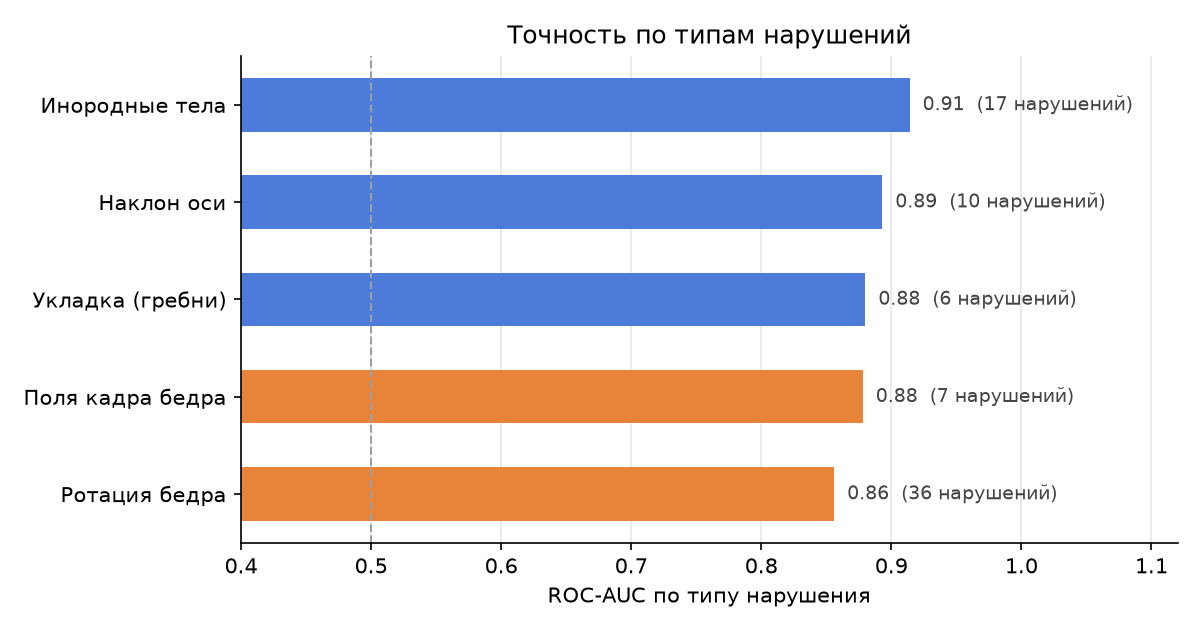
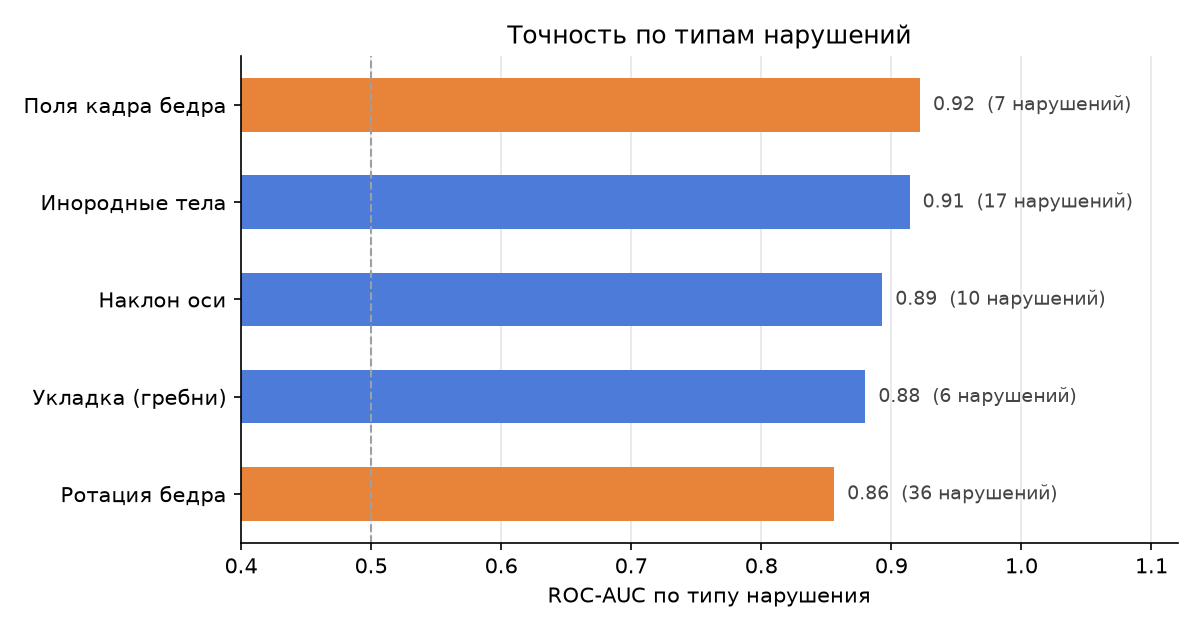
Q&A 17.09: верхнее поле бедра от большого вертела, эндопротез оценивается, словарь нарушений
- поле сверху считается от большого вертела (ТЗ: 3 см над ним): нормальных бёдер против правила
  45/143 -> 1/143, тип «область интереса» AUC 0.878 -> 0.922, F1 0.565 -> 0.676
- бедро с эндопротезом оценивается как обычное, пометка в details
- причины отказа — в details, в violation_type только названия из словаря
- проверено: смещение столба от центра и чёрные маски — без изменений
Итог: по исследованиям F1 0.830 (чувствительность 0.92), macro-F1 0.648.

diff --git a/dxaqc/service.py b/dxaqc/service.py
@@ -74,10 +74,11 @@ class QCService:
         if region == "spine":
             meas = spine_measurements(img, points, conf, mm_per_px, self.segmenter.area(img))
         else:
-            if float((img >= img.max() - 2).mean()) > IMPLANT_METAL_FRACTION:
-                out.update(implant=True, measurements={}, probs={}, violations=[], score=None, quality_class=0)
-                return out
+            # Q&A 17.09: a hip with an endoprosthesis is judged like any other hip (positioning and field
+            # are still the radiographer's job); the implant is only reported as a note in `details`.
+            implant = float((img >= img.max() - 2).mean()) > IMPLANT_METAL_FRACTION
             meas = hip_measurements(img, points, conf, region, mm_per_px)
+            meas["implant"] = implant
             # Rotation reads a crop aligned by the landmarks, and is sensitive to which detector placed
             # them. With an ensemble, the forest looks at the crop of every member and the answers are
             # averaged: on new detectors 0.826 AUC, against 0.809 for one crop from the averaged points.
@@ -100,7 +101,7 @@ class QCService:
             quality_class, score = 1, max(score, 0.9)
             if "v_pos" not in violations:
                 violations.append("v_pos")
-        out.update(implant=False, measurements=meas, probs=probs, violations=violations, score=score,
+        out.update(implant=bool(meas.get("implant", False)), measurements=meas, probs=probs, violations=violations, score=score,
                    quality_class=quality_class, presumed=presumed)
         return out
 
@@ -119,51 +120,52 @@ class QCService:
             mm, mm_src = pixel_spacing_mm(ds, img.shape)
             if mm_src in ("PixelSpacing", "ImagerPixelSpacing") and min(mm) < DXA_MIN_MM_PER_PX:
                 # a real spacing tag this fine means a radiograph (0.12-0.14 mm), not DXA (0.6 mm)
+                # violation_type is a closed vocabulary (разъяснения V2), so the reason goes to details
                 row.update(anatomical_region="не определена", quality_class=0, processing_status="Success",
-                           violation_type=f"оценка не проводится: размер пикселя {min(mm):.2f} мм — это не денситометрия",
-                           violation_codes="unsupported", details=f"{mm[0]:.3f}x{mm[1]:.3f} мм из тега {mm_src}")
+                           violation_type="", violation_codes="unsupported",
+                           details=f"оценка не проводится: размер пикселя {min(mm):.2f} мм — это не денситометрия "
+                                   f"({mm[0]:.3f}x{mm[1]:.3f} мм из тега {mm_src})")
                 row["time_of_processing"] = round(time.time() - t0, 3)
                 return row
             r = self.analyse(img, mm, rotation_override)
             row["mm_per_px"] = f"{mm[0]:.3f}x{mm[1]:.3f}" if mm[0] != mm[1] else round(mm[0], 4)
             row["mm_per_px_source"] = mm_src
             if r.get("unsupported"):
-                row.update(anatomical_region="не определена", quality_class=0,
-                           violation_type=f"оценка не проводится: {r['reason']}", violation_codes="unsupported",
-                           details="; ".join(f"{k} {v:.2f}" for k, v in r["checks"].items()),
+                row.update(anatomical_region="не определена", quality_class=0, violation_type="", violation_codes="unsupported",
+                           details=f"оценка не проводится: {r['reason']} ("
+                                   + "; ".join(f"{k} {v:.2f}" for k, v in r["checks"].items()) + ")",
                            processing_status="Success")
                 row["time_of_processing"] = round(time.time() - t0, 3)
                 return row
             row["anatomical_region"] = REGION_RU[r["region"]]
             row["_region"] = r["region"]
             row["_rotation"] = r.get("measurements", {}).get("rotation_own")
-            if r["implant"]:
-                row.update(quality_class=0, violation_type="эндопротез: оценка качества не проводится", violation_codes="implant")
+            row.update(quality_class=r["quality_class"], quality_prob=round(r["score"], 4),
+                       violation_type="; ".join(NAMES_RU[v] for v in r["violations"]),
+                       violation_codes=";".join(r["violations"]))
+            m = r["measurements"]
+            if r["region"] == "spine":
+                bits = []
+                if m.get("tilt_deg") is not None:
+                    bits.append(f"наклон оси {m['tilt_deg']:.1f}°")
+                if m.get("span_vert") is not None:
+                    bits.append(f"над гребнями {m['span_vert']:.1f} позвонка")
+                if m.get("vert_pitch_mm"):
+                    bits.append(f"высота позвонка {m['vert_pitch_mm']:.0f} мм")
+                if m.get("printed_markup"):
+                    bits.append("на снимке впечатана разметка аппарата: инородные тела не оцениваются")
+                row["details"] = "; ".join(bits)
             else:
-                row.update(quality_class=r["quality_class"], quality_prob=round(r["score"], 4),
-                           violation_type="; ".join(NAMES_RU[v] for v in r["violations"]),
-                           violation_codes=";".join(r["violations"]))
-                m = r["measurements"]
-                if r["region"] == "spine":
-                    bits = []
-                    if m.get("tilt_deg") is not None:
-                        bits.append(f"наклон оси {m['tilt_deg']:.1f}°")
-                    if m.get("span_vert") is not None:
-                        bits.append(f"над гребнями {m['span_vert']:.1f} позвонка")
-                    if m.get("vert_pitch_mm"):
-                        bits.append(f"высота позвонка {m['vert_pitch_mm']:.0f} мм")
-                    if m.get("printed_markup"):
-                        bits.append("на снимке впечатана разметка аппарата: инородные тела не оцениваются")
-                    row["details"] = "; ".join(bits)
-                else:
-                    ru = {"top": "сверху", "bottom": "снизу", "lateral": "сбоку"}
-                    bits = [f"поле {ru[k]} {m[f'margin_{k}']:.0f} мм" for k in ("top", "bottom", "lateral")
-                            if m.get(f"margin_{k}") is not None]
-                    if m.get("shaft_angle") is not None:
-                        bits.append(f"ось бедра {m['shaft_angle']:.0f}° к вертикали")
-                    row["details"] = "; ".join(bits)
-                if r.get("presumed"):
-                    row["details"] = (row["details"] + "; " if row["details"] else "") + "тип указан как наиболее вероятный"
+                ru = {"top": "сверху (от большого вертела)", "bottom": "снизу", "lateral": "сбоку"}
+                bits = [f"поле {ru[k]} {m[f'margin_{k}']:.0f} мм" for k in ("top", "bottom", "lateral")
+                        if m.get(f"margin_{k}") is not None]
+                if m.get("shaft_angle") is not None:
+                    bits.append(f"ось бедра {m['shaft_angle']:.0f}° к вертикали")
+                if m.get("implant"):
+                    bits.append("эндопротез (укладка оценена как у обычного бедра)")
+                row["details"] = "; ".join(bits)
+            if r.get("presumed"):
+                row["details"] = (row["details"] + "; " if row["details"] else "") + "тип указан как наиболее вероятный"
             row["processing_status"] = "Success"
             if vis_dir is not None:
                 from PIL import Image

diff --git a/dxaqc/visualize.py b/dxaqc/visualize.py
@@ -58,8 +58,8 @@ def render_overlay(img, result):
         for k, v in p.items():
             if v:
                 cv2.circle(rgb, _pt(v), 5, CYAN, -1, cv2.LINE_AA)
-        if p.get("fh_top"):
-            x, y = _pt(p["fh_top"]); cv2.arrowedLine(rgb, (x, y), (x, 0), YELLOW, 1, cv2.LINE_AA, tipLength=0.05)
+        if p.get("gt_top"):   # top margin: from the tip of the greater trochanter (geometry.hip_margins_mm)
+            x, y = _pt(p["gt_top"]); cv2.arrowedLine(rgb, (x, y), (x, 0), YELLOW, 1, cv2.LINE_AA, tipLength=0.05)
         low = p.get("lt") or p.get("shaft_p")
         if low:
             x, y = _pt(low); cv2.arrowedLine(rgb, (x, y), (x, h * SCALE - 1), YELLOW, 1, cv2.LINE_AA, tipLength=0.05)
@@ -76,13 +76,12 @@ def render_overlay(img, result):
         cv2.rectangle(rgb, (x0, y0), (x1, y1), CYAN, 1, cv2.LINE_AA)
         cv2.putText(rgb, r["level"], (x0 + 4, y0 + 16), cv2.FONT_HERSHEY_SIMPLEX, 0.4, CYAN, 1, cv2.LINE_AA)
     if result.get("implant"):
-        lines.append("IMPLANT: not evaluated"); color = YELLOW
-    else:
-        codes = {"v_axis": "axis tilt", "v_pos": "positioning (iliac crests)", "v_artifact": "foreign body",
-                 "v_roi": "field margins", "v_posrot": "positioning/rotation"}
-        lines.append("QUALITY: " + (", ".join(codes[v] for v in result["violations"]) if bad else "OK")
-                     + (f"  (p={result['score']:.2f})" if result.get("score") is not None else ""))
-        color = RED if bad else GREEN
+        lines.append("endoprosthesis: positioning judged as for any hip")
+    codes = {"v_axis": "axis tilt", "v_pos": "positioning (iliac crests)", "v_artifact": "foreign body",
+             "v_roi": "field margins", "v_posrot": "positioning/rotation"}
+    lines.append("QUALITY: " + (", ".join(codes[v] for v in result["violations"]) if bad else "OK")
+                 + (f"  (p={result['score']:.2f})" if result.get("score") is not None else ""))
+    color = RED if bad else GREEN
     return _with_header(rgb, lines, color)
 
 

diff --git a/dxaqc/geometry.py b/dxaqc/geometry.py
@@ -16,7 +16,7 @@ MAX_TILT_DEG = 5.0          # ТЗ 2.3: допустимый наклон оси
 # only the fallback for images where the vertebral train is not found.
 MIN_SPINE_SPAN_VERT = 3.2   # conservative: no training scan was called short at the top (min 3.5)
 MIN_SPINE_SPAN_MM = 115.0   # ~4.5 vertebrae at the measured pitch of ~30 mm
-HIP_MARGIN_TOP_MM = 30.0    # ТЗ 2.3, рис. 6: 3 см сверху и снизу, 2 см сбоку
+HIP_MARGIN_TOP_MM = 30.0    # ТЗ 2.3, рис. 6: 3 см над большим вертелом, 3 см под малым, 2 см сбоку
 HIP_MARGIN_BOTTOM_MM = 30.0
 HIP_MARGIN_LATERAL_MM = 20.0
 
@@ -96,12 +96,18 @@ def hip_margins_mm(kp, shape, side, mm_per_px=MM_PER_PX):
 
     In the AP view the right hip has the femoral head on the image right, so its
     lateral side (greater trochanter) faces the image left.
+
+    The top margin is measured from the tip of the GREATER TROCHANTER: ТЗ asks for 3 cm above it (the
+    wording repeated at the organisers' Q&A, 17.09). It used to be taken from the top of the femoral
+    head, and then 45 of 143 normal hips "violated" the 3 cm rule — the rule and the experts disagreed.
+    From the trochanter only 1 of 143 does, and the ROI type improves on every detector checked
+    (AUC 0.865 -> 0.930 on the shipped ensemble, 0.91 -> 0.93 on two detectors outside any selection).
     """
     h, w = shape
     sx, sy = axes_mm(mm_per_px)
-    head, low, lat = kp.get("fh_top"), first(kp, ["lt", "shaft_p"]), kp.get("gt_lat")
+    gt, low, lat = kp.get("gt_top"), first(kp, ["lt", "shaft_p"]), kp.get("gt_lat")
     return {
-        "top": None if head is None else head[1] * sy,
+        "top": None if gt is None else gt[1] * sy,
         "bottom": None if low is None else (h - low[1]) * sy,
         "lateral": None if lat is None else (lat[0] if side == "hip_right" else w - lat[0]) * sx,
     }

diff --git a/tests/test_service.py b/tests/test_service.py
@@ -172,4 +172,5 @@ def test_refuses_plain_radiographs(service, tmp_path):
                     lambda ds: setattr(ds, "PixelSpacing", [0.143, 0.143]))
     row = service.process_file(path)
     assert row["violation_codes"] == "unsupported" and row["processing_status"] == "Success"
-    assert "не денситометрия" in row["violation_type"]
+    # violation_type is a closed vocabulary: the refusal reason goes to details
+    assert row["violation_type"] == "" and "не денситометрия" in row["details"]

diff --git a/docs/night_report.md b/docs/night_report.md
@@ -694,6 +694,51 @@ AUC 0.826 → 0.842, PR-AUC 0.653 → 0.701; на исходном 0.856 → 0.8
 
 Docker-образ после этой сборки нужно пересобрать (`./run.sh build`): изменились модели и код.
 
+## 22. Сессия вопросов и ответов 17.09 — что изменили
+
+Расшифровка сверена с решением пункт за пунктом. Уже было сделано так, как сказали организаторы: строка
+на каждый файл (дубли тоже), вердикт по отдельным критериям, а не по столбцу «итог», пять типов
+(3 + 2, позиционирование и ротация бедра объединены), нарушения текстом через «; », пусто и
+quality_class 0 при отсутствии нарушений, столбец вероятности для ROC-AUC, область по-русски,
+macro-F1 по списку нарушений, защита от чужих снимков, сколиоз — не нарушение, маски на бедре —
+не признак.
+
+Изменено:
+
+- **Верхнее поле бедра — от большого вертела.** В вопросе участников критерий ТЗ процитирован как
+  «3 см над большим вертелом». Мы считали от верха головки, и тогда 45 из 143 нормальных бёдер
+  «нарушали» правило — эксперт и правило расходились. От вертела нарушает 1 из 143. Тип «область
+  интереса» на ансамбле с синтетикой: AUC 0.878 → 0.922, F1 0.565 → 0.676. Проверено на двух
+  детекторах, не участвовавших ни в каком подборе, и на свежих разбиениях: 0.91 → 0.93 AUC,
+  F1 0.40 → 0.56 и 0.53 → 0.60. Синтетика «обрезанный верх» пересчитана по новому правилу, стрелка
+  верхнего поля на картинке идёт от вертела.
+- **Эндопротез оценивается как обычное бедро** (ответ на вопрос про снимки 66 и 70). Раньше сервис
+  писал «эндопротез: оценка не проводится» в столбец нарушений — это ломало закрытый словарь. Теперь
+  обычный вердикт и пометка «эндопротез» в `details`. Риск: в обучающих данных такие бёдра не
+  размечены, качество на них не измерить; на обоих бёдрах архива модель ставит ротацию.
+- **Отказ по чужому снимку** — причина перенесена из `violation_type` в `details`: в столбце нарушений
+  теперь только пять названий из словаря (проверено на всём архиве).
+
+Проверено и не изменено:
+
+- **ось позвоночника** — «от центров тел позвонков, от верхнего к нижнему видимому, вертикаль = ось
+  сканирования»: наша ось «верх столба — уровень гребней» ровно это и измеряет. Смещение столба от
+  центра кадра («ось отклонена от центральной оси изображения») как дополнительный признак ничего не
+  даёт: 0.881 → 0.879, оно почти целиком повторяет угол;
+- **чёрные маски на бёдрах** (организаторы: «если модель на них смотрит, она ошибается»): есть на 15 из
+  150 бёдер, с нарушением почти не связаны (AUC 0.53); закрашивание масок перед оценкой ротации
+  ничего не меняет (AUC 0.856 → 0.855) — на маски модель существенно не опирается;
+- **размер пикселя** — организаторы повторили 1.05 мм по Y из документации аппарата. Наши три замера
+  по-прежнему говорят 0.6 для выгруженного изображения; сервис поддерживает оба варианта
+  (`DXAQC_PIXEL_MM="0.6,1.05"`), на вердикт это почти не влияет — пороги выучены на метках.
+
+Итог после изменений: по снимкам AUC 0.873, F1 0.741, PR-AUC 0.768; по исследованиям AUC 0.863,
+F1 0.830, чувствительность 0.92; **macro-F1 0.648**. Архив 499/499, в столбцах нарушений и области —
+только значения из словаря.
+
+Для защиты: репозиторий должен быть **публичным**; питч около 5 минут (в презентации добавлен план
+на 6 слайдов); чем проще проверка решения экспертами, тем лучше — есть `run.sh`, Docker, веб-интерфейс.
+
 ## 6. Что дальше / вопросы
 
 - Пороги сейчас подобраны на максимум F1 по нашим меткам; для врача, возможно, важнее чувствительность — обсудить.

diff --git a/docs/presentation.md b/docs/presentation.md
@@ -4,9 +4,14 @@
 какая картинка, и что сказать голосом. Картинки — в `docs/figures/` (графики) и `docs/night/`
 (снимки пациентов, их на слайды можно, в репозиторий нельзя).
 
-Ключевые числа, если нужно быстро: **ROC-AUC 0.872, F1 0.741** по снимкам и
-**AUC 0.855, F1 0.819, чувствительность 0.90** по исследованиям (кросс-валидация по пациентам), **0.4 с на снимок**, **499 из 499 файлов** архива
+Ключевые числа, если нужно быстро: **ROC-AUC 0.873, F1 0.741** по снимкам и
+**AUC 0.86, F1 0.83, чувствительность 0.92** по исследованиям (кросс-валидация по пациентам), **0.4 с на снимок**, **499 из 499 файлов** архива
 обработано без единой ошибки.
+
+**Регламент (Q&A 17.09): защита онлайн только у топ-10 после верификации, около 5 минут плюс вопросы.**
+Тринадцать слайдов в 5 минут не помещаются. Версия на 5 минут — 6 слайдов, остальное в запас на вопросы:
+1 (задача) → 2+3 (подход и архитектура одной схемой) → 7 (результаты) → 8 (честность: ансамбль, ось кости,
+синтетика) → 10 (чужие данные) → 13 (демонстрация, 1 минута). Слайды 4, 5, 6, 9, 11, 12 — в приложение.
 
 ---
 
@@ -28,7 +33,7 @@
 
 **На слайд:**
 - Критерии ТЗ **геометрические**: наклон оси ≤ 5°, охват от середины Th12 до гребней подвздошных
-  костей, поля 3 см / 3 см / 2 см, малый вертел едва виден.
+  костей, 3 см над большим вертелом / 3 см под малым / 2 см сбоку, малый вертел едва виден.
 - Поэтому ядро решения — **детектор анатомических точек**, а не сквозная классификация: мы считаем
   те же градусы и миллиметры, которыми пользуется врач.
 - Что линейкой не измерить (ротация, металл) — отдельные модели по изображению.
@@ -100,10 +105,10 @@ DICOM → нормализация → «свой/чужой» снимок → 
 | Позвоночник | Не выравнена ось | угол оси столба к вертикали, поправка на сколиоз |
 | Позвоночник | Посторонние предметы | тонкие яркие структуры вне позвоночного столба |
 | Бедро | Некорректная укладка | HOG выровненного участка + ближний план малого вертела |
-| Бедро | Некорректная область интереса | поля от головки и малого вертела до краёв кадра, мм |
+| Бедро | Некорректная область интереса | поля от большого и малого вертела до краёв кадра, мм |
 
 - Типы независимы (мультилейбл), снимок «с нарушением», если сработал хотя бы один.
-- Эндопротез — отдельный ответ «не оценивается»: критерии укладки к нему неприменимы.
+- Эндопротез оценивается как обычное бедро (решение организаторов), в пояснениях — пометка «эндопротез».
 
 ---
 
@@ -114,13 +119,13 @@ DICOM → нормализация → «свой/чужой» снимок → 
 | | ROC-AUC | PR-AUC | F1 | Чувствительность | Специфичность |
 |---|---|---|---|---|---|
 | Позвоночник (99) | 0.85 [0.76–0.92] | 0.70 | 0.74 | 0.90 | 0.75 |
-| Бёдра (150) | 0.89 [0.82–0.95] | 0.82 | 0.74 | 0.78 | 0.88 |
+| Бёдра (150) | 0.90 [0.84–0.95] | 0.82 | 0.74 | 0.78 | 0.88 |
 | **Всего (249 снимков)** | **0.87 [0.82–0.92]** | 0.76 | **0.74** | 0.83 | 0.83 |
-| **По исследованиям (100)** | **0.86 [0.78–0.92]** | 0.85 | **0.82** | 0.90 | 0.73 |
+| **По исследованиям (100)** | **0.86 [0.79–0.93]** | 0.86 | **0.83** | 0.92 | 0.73 |
 
-ТЗ просит чувствительность выявления **исследований** — это последняя строка: 0.90 при 100 исследованиях.
-По типам: инородные тела 0.91, наклон оси 0.89, укладка позвоночника 0.88, поля кадра 0.88,
-ротация бедра 0.86; macro-F1 по типам 0.63.
+ТЗ просит чувствительность выявления **исследований** — это последняя строка: 0.92 при 100 исследованиях.
+По типам: поля кадра 0.92, инородные тела 0.91, наклон оси 0.89, укладка позвоночника 0.88,
+ротация бедра 0.86; macro-F1 по типам 0.65.
 Локализация: ключевые точки в среднем 4 мм, инородные тела — 67 % объектов найдено,
 78 % найденного лежит на объекте.
 

diff --git a/docs/user_guide.md b/docs/user_guide.md
@@ -65,15 +65,17 @@ curl -X POST "http://localhost:8000/predict?format=csv" -F "files=@study.zip" -o
 - **«Некорректная укладка»** — нога развёрнута неправильно. Основной признак — малый вертел:
   при правильной ротации он едва виден, при недоротации выступает, при переротации исчезает.
 - **«Некорректная область интереса»** — вокруг исследуемой области мало места: по критерию ТЗ нужно
-  3 см сверху и снизу и 2 см сбоку. Фактические поля — в `details`.
+  3 см над большим вертелом, 3 см под малым вертелом и 2 см сбоку. Фактические поля — в `details`.
 
 ### Особые ответы
 
-- **«эндопротез: оценка качества не проводится»** (`implant`) — на снимке металлический протез,
-  критерии укладки к нему неприменимы.
-- **«оценка не проводится: …»** (`unsupported`) — изображение не похоже на денситометрию
-  позвоночника или бедра (пустой кадр, не рентген, другая анатомия). Сервис честно отказывается,
-  вместо того чтобы выдать вердикт наугад.
+- **эндопротез** — бедро с металлическим протезом оценивается как любое другое (так решили
+  организаторы, Q&A 17.09): укладка и поля кадра — задача лаборанта и при протезе. В `details`
+  добавляется пометка «эндопротез».
+- **«оценка не проводится: …»** в `details` (код `unsupported`, `violation_type` пустой) — изображение
+  не похоже на денситометрию позвоночника или бедра (пустой кадр, не рентген, другая анатомия).
+  Сервис честно отказывается, вместо того чтобы выдать вердикт наугад. Столбец `violation_type`
+  содержит только названия нарушений из словаря организаторов.
 - **«на снимке впечатана разметка аппарата…»** — денситометр напечатал поверх снимка свои рамки
   L1–L4. Их линии неотличимы от металла, поэтому инородные тела на таком снимке не оцениваются.
 
@@ -99,7 +101,7 @@ DXAQC_POLICY=balanced python scripts/predict.py ...
 ## Чего сервис не делает
 
 - не ставит диагноз и не измеряет минеральную плотность — только контроль качества укладки;
-- не оценивает снимки с эндопротезом;
+- не выявляет патологию (сколиоз, переломы) — только отмечает эндопротез в пояснениях;
 - «сколиоз» не считается нарушением укладки (эксперт в обучающих данных его так и не помечал);
 - обучен на одном аппарате (GE Lunar Prodigy Advance); на снимках другого производителя проверяйте
   результат выборочно — сервис для этого сообщает, когда изображение не похоже на обучающие.
